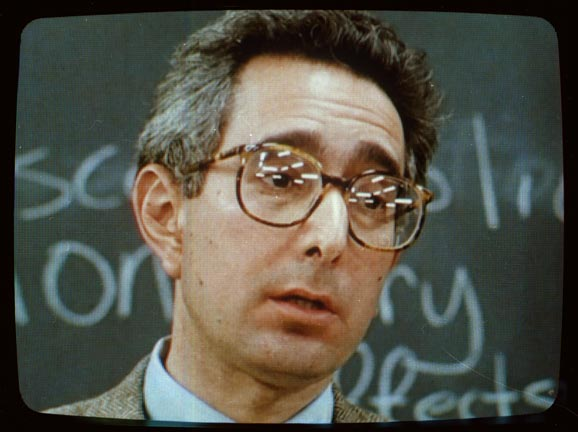
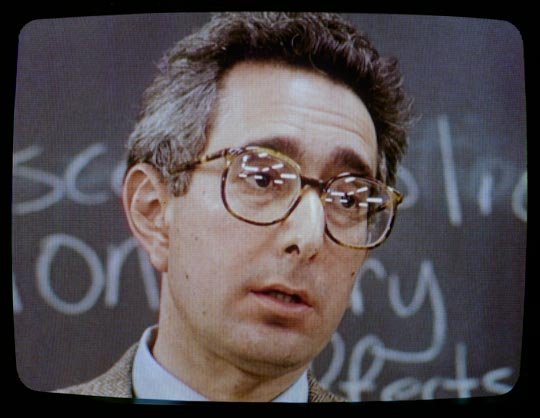
Aperture Grille images

diff --git a/data/photographs.ts b/data/photographs.ts
@@ -39,6 +39,20 @@ const photographs: Array<Photograph> = [
   },
   {
     publish: true,
+    publishDate: '2024-11-15',
+    year: 2024,
+    slug: '2024-aperture-grille-2',
+    title: 'Aperture Grille 2'
+  },
+  {
+    publish: true,
+    publishDate: '2024-11-15',
+    year: 2024,
+    slug: '2024-aperture-grille-3',
+    title: 'Aperture Grille 3'
+  },
+  {
+    publish: true,
     publishDate: '2024-06-26',
     year: 2024,
     slug: '2024-green-wall',
